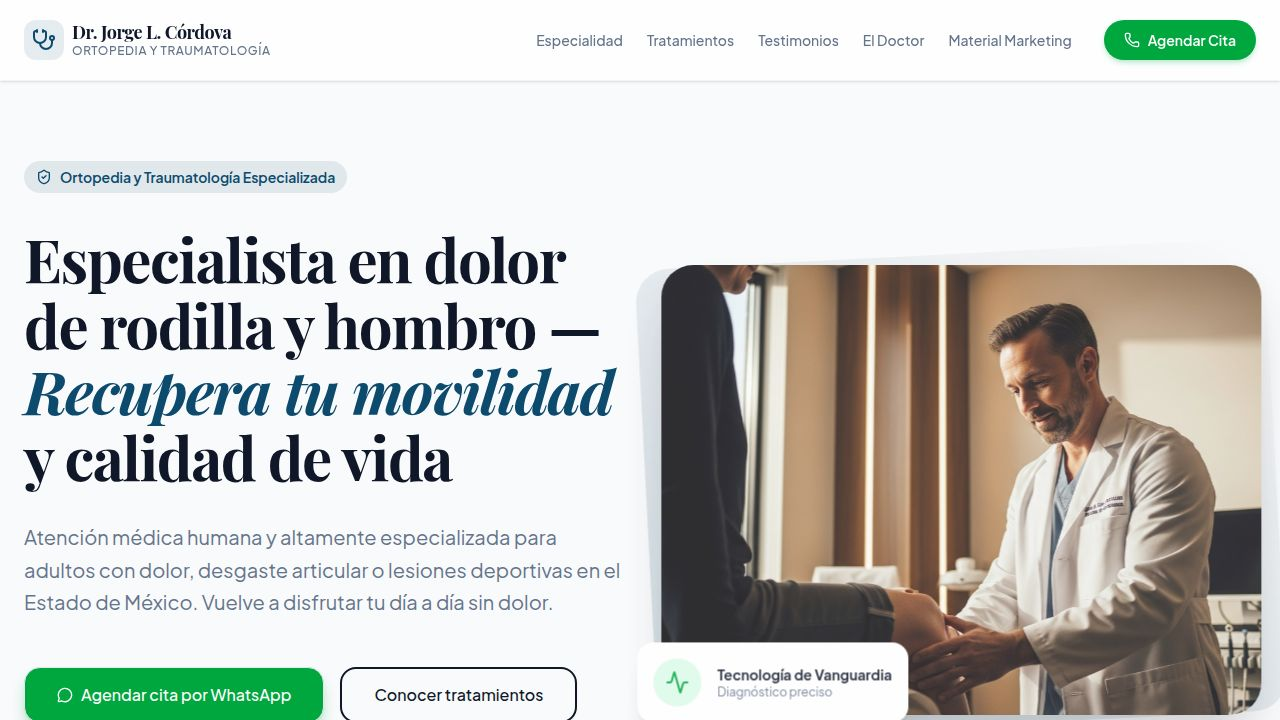
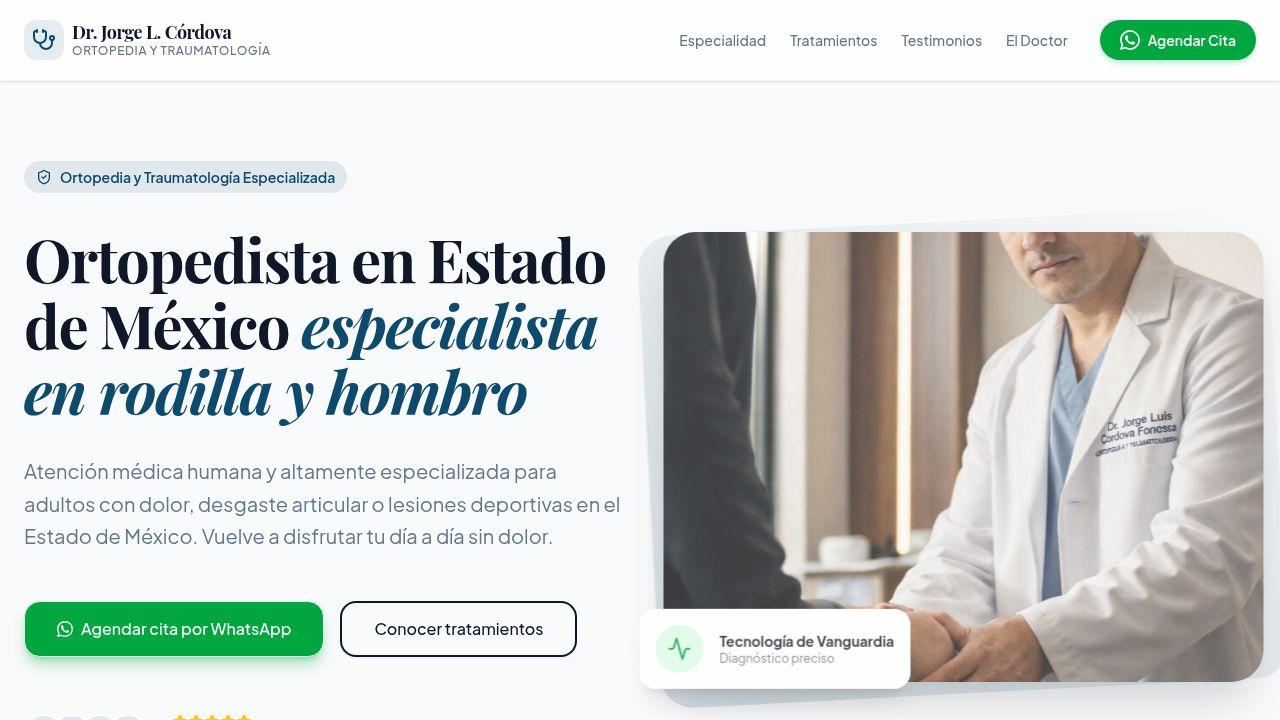
Make WhatsApp contact options more obvious on the website
Replace generic phone and message icons with the official WhatsApp logo across navigation and contact buttons.

Replit-Commit-Author: Agent
Replit-Commit-Session-Id: 318c9fd7-275b-472b-87e1-73e492cb9394
Replit-Commit-Checkpoint-Type: full_checkpoint
Replit-Commit-Event-Id: a1ff0e14-3f3a-43d4-b49e-02b07f9a207b
Replit-Commit-Screenshot-Url: https://storage.googleapis.com/screenshot-production-us-central1/608403ae-773a-4da5-a128-213319f89c43/318c9fd7-275b-472b-87e1-73e492cb9394/gAYuvEj
Replit-Helium-Checkpoint-Created: true

diff --git a/client/src/pages/Home.tsx b/client/src/pages/Home.tsx
@@ -2,9 +2,10 @@ import { Button } from "@/components/ui/button";
 import { Card, CardContent } from "@/components/ui/card";
 import { 
   Activity, ArrowRight, Award, Bone, CheckCircle2, 
-  ChevronRight, HeartPulse, MessageCircle, ShieldCheck, 
-  Star, Stethoscope, UserCheck, Phone 
+  ChevronRight, HeartPulse, ShieldCheck, 
+  Star, Stethoscope, UserCheck 
 } from "lucide-react";
+import { WhatsAppIcon } from "@/components/icons/WhatsAppIcon";
 import heroImg from "@/assets/images/hero-medical.png";
 import doctorImg from "@/assets/images/doctor-portrait.png";
 import clinicImg from "@/assets/images/clinic-interior.png";
@@ -40,7 +41,7 @@ export default function Home() {
               <div className="flex flex-col sm:flex-row gap-4 pt-4">
                 <a href={WHATSAPP_LINK} target="_blank" rel="noopener noreferrer" className="w-full sm:w-auto">
                   <Button size="lg" className="w-full text-base h-14 bg-green-600 hover:bg-green-700 text-white shadow-lg shadow-green-600/30 rounded-xl gap-2 transition-transform hover:-translate-y-1">
-                    <MessageCircle className="w-5 h-5" />
+                    <WhatsAppIcon className="w-6 h-6" />
                     Agendar cita por WhatsApp
                   </Button>
                 </a>
@@ -133,6 +134,7 @@ export default function Home() {
             <p className="text-muted-foreground mb-6">¿Te identificas con alguno de estos síntomas?</p>
             <a href={WHATSAPP_LINK} target="_blank" rel="noopener noreferrer">
               <Button className="bg-primary hover:bg-primary/90 text-white rounded-full px-8 py-6 text-lg shadow-lg hover:-translate-y-1 transition-transform">
+                <WhatsAppIcon className="w-6 h-6 mr-2" />
                 Cuéntame tus síntomas por WhatsApp
               </Button>
             </a>
@@ -327,7 +329,7 @@ export default function Home() {
           <div className="flex flex-col sm:flex-row gap-4 justify-center">
             <a href={WHATSAPP_LINK} target="_blank" rel="noopener noreferrer">
               <Button size="lg" className="h-16 px-8 text-lg bg-green-500 hover:bg-green-600 text-white rounded-xl shadow-2xl gap-3">
-                <Phone className="w-6 h-6" />
+                <WhatsAppIcon className="w-7 h-7" />
                 Agendar por WhatsApp
               </Button>
             </a>

diff --git a/client/src/components/icons/WhatsAppIcon.tsx b/client/src/components/icons/WhatsAppIcon.tsx
@@ -1,0 +1,12 @@
+export function WhatsAppIcon({ className = "w-6 h-6" }: { className?: string }) {
+  return (
+    <svg
+      className={className}
+      viewBox="0 0 24 24"
+      fill="currentColor"
+      xmlns="http://www.w3.org/2000/svg"
+    >
+      <path d="M17.472 14.382c-.297-.149-1.758-.867-2.03-.967-.273-.099-.471-.148-.67.15-.197.297-.767.966-.94 1.164-.173.199-.347.223-.644.075-.297-.15-1.255-.463-2.39-1.475-.883-.788-1.48-1.761-1.653-2.059-.173-.297-.018-.458.13-.606.134-.133.298-.347.446-.52.149-.174.198-.298.298-.497.099-.198.05-.371-.025-.52-.075-.149-.669-1.612-.916-2.207-.242-.579-.487-.5-.669-.51-.173-.008-.371-.01-.57-.01-.198 0-.52.074-.792.372-.272.297-1.04 1.016-1.04 2.479 0 1.462 1.065 2.875 1.213 3.074.149.198 2.096 3.2 5.077 4.487.709.306 1.262.489 1.694.625.712.227 1.36.195 1.871.118.571-.085 1.758-.719 2.006-1.413.248-.694.248-1.289.173-1.413-.074-.124-.272-.198-.57-.347m-5.421 7.403h-.004a9.87 9.87 0 01-5.031-1.378l-.361-.214-3.741.982.998-3.648-.235-.374a9.86 9.86 0 01-1.51-5.26c.001-5.45 4.436-9.884 9.888-9.884 2.64 0 5.122 1.03 6.988 2.898a9.825 9.825 0 012.893 6.994c-.003 5.45-4.437 9.884-9.885 9.884m8.413-18.297A11.815 11.815 0 0012.05 0C5.495 0 .16 5.335.157 11.892c0 2.096.547 4.142 1.588 5.945L.057 24l6.305-1.654a11.882 11.882 0 005.683 1.448h.005c6.554 0 11.89-5.335 11.893-11.893a11.821 11.821 0 00-3.48-8.413z" />
+    </svg>
+  );
+}

diff --git a/client/src/components/layout/Navbar.tsx b/client/src/components/layout/Navbar.tsx
@@ -1,6 +1,7 @@
 import { Link, useLocation } from "wouter";
-import { Phone, Stethoscope, Menu, X } from "lucide-react";
+import { Stethoscope, Menu, X } from "lucide-react";
 import { useState } from "react";
+import { WhatsAppIcon } from "@/components/icons/WhatsAppIcon";
 
 export function Navbar() {
   const [isOpen, setIsOpen] = useState(false);
@@ -67,7 +68,7 @@ export function Navbar() {
               rel="noopener noreferrer"
               className="flex items-center gap-2 bg-green-600 hover:bg-green-700 text-white px-5 py-2.5 rounded-full text-sm font-semibold transition-all shadow-md shadow-green-600/20 hover:shadow-lg hover:shadow-green-600/30 hover:-translate-y-0.5 no-underline"
             >
-              <Phone className="h-4 w-4" />
+              <WhatsAppIcon className="h-5 w-5" />
               Agendar Cita
             </a>
           </div>
@@ -102,7 +103,7 @@ export function Navbar() {
               rel="noopener noreferrer"
               className="flex items-center justify-center gap-2 bg-green-600 text-white px-5 py-3 rounded-xl text-base font-semibold w-full no-underline"
             >
-              <Phone className="h-5 w-5" />
+              <WhatsAppIcon className="h-6 w-6" />
               Agendar Cita por WhatsApp
             </a>
           </div>
